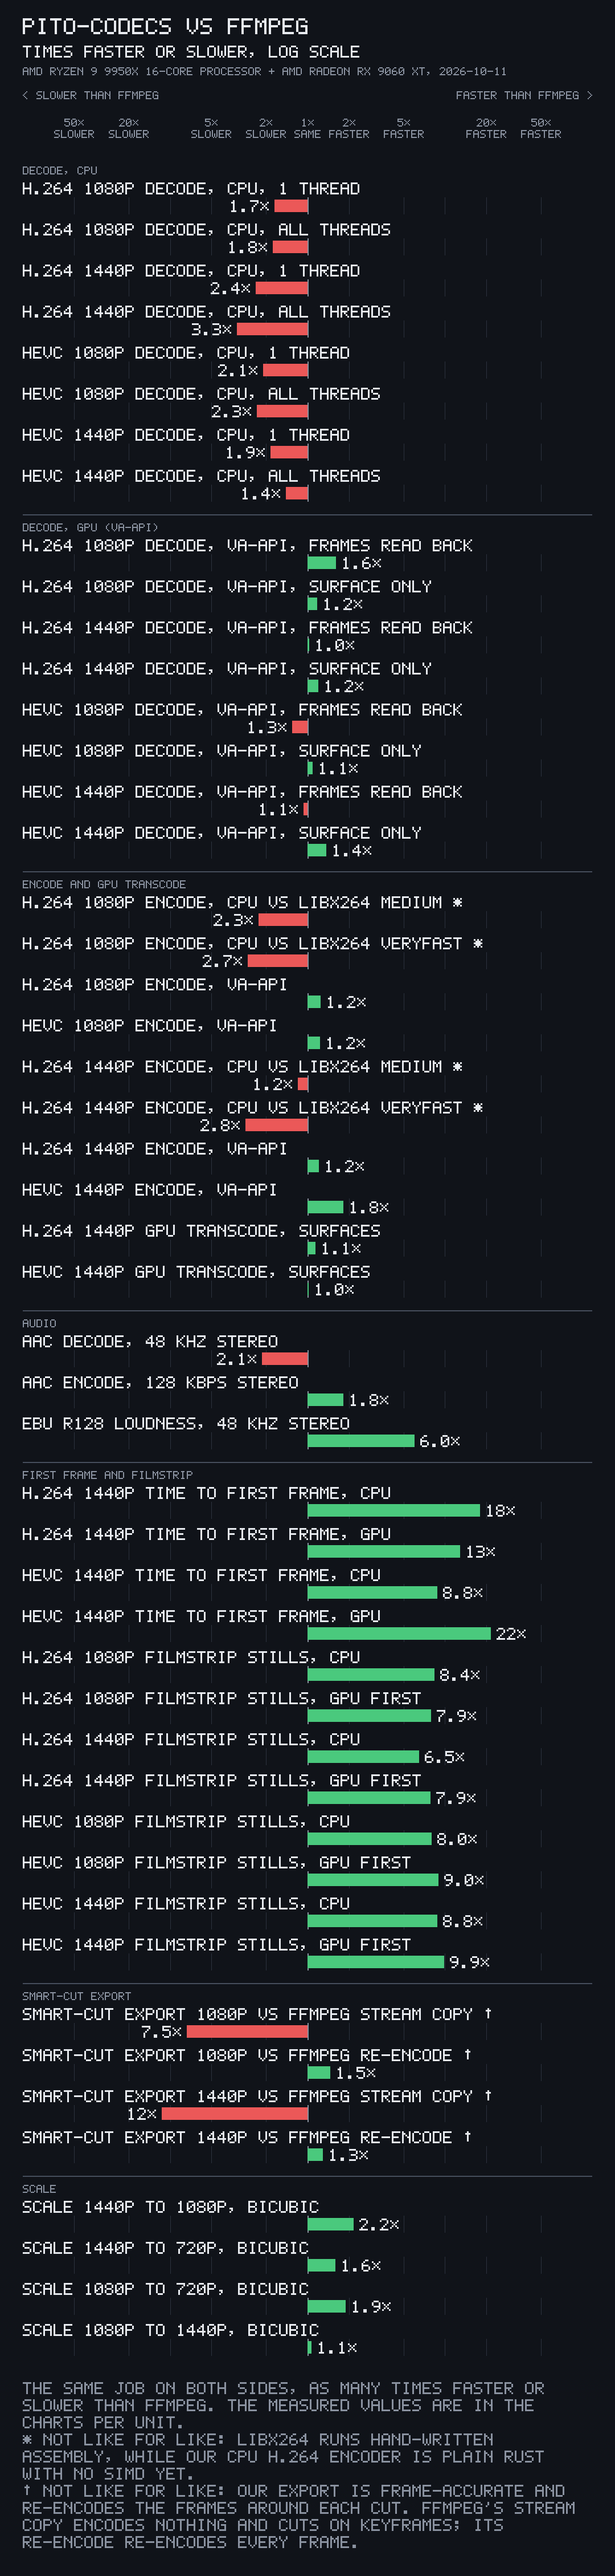
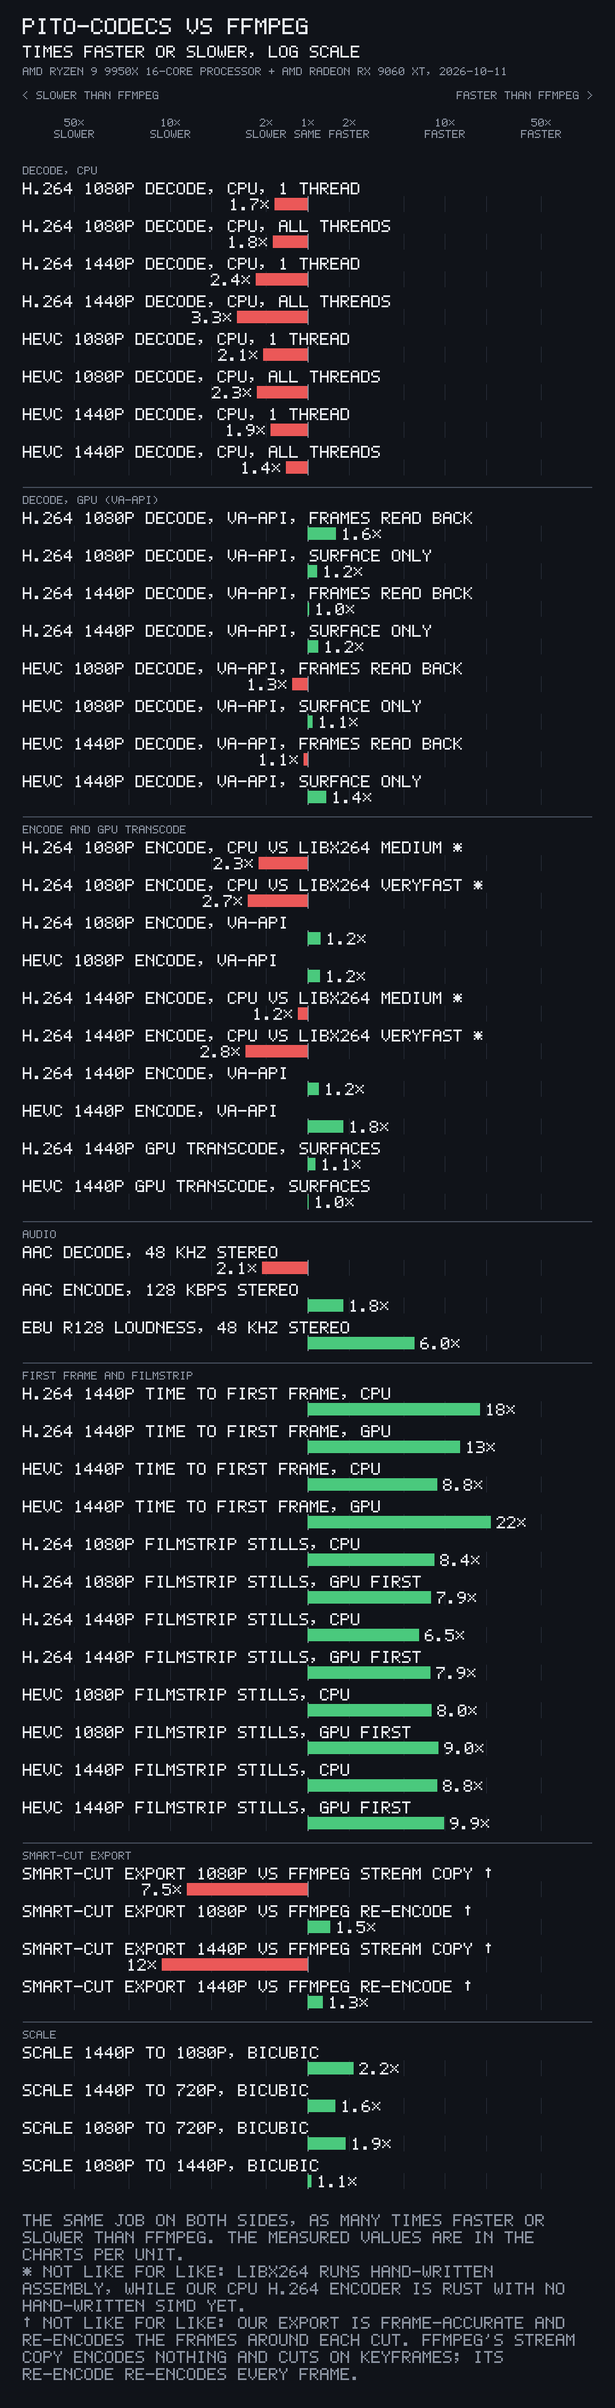
README: routes are GPU then our CPU code with their fallbacks; INSPIRATION opens with why; charts per unit with notes on the comparisons that are not like for like

diff --git a/examples/bench/charts.rs b/examples/bench/charts.rs
@@ -149,7 +149,7 @@ type Res = Result<(), Box<dyn std::error::Error>>;
 const WIDTH: i64 = 1080;
 const LEFT: i64 = 40;
 const ROW: i64 = 124;
-const RATIO_ROW: i64 = 72;
+const RATIO_ROW: i64 = 66;
 const GROUP: i64 = 50;
 const NOTE: i64 = 30;
 
@@ -404,6 +404,9 @@ pub fn ratios(
             let r = t.powf(side);
             let gx = x(r);
             grid.push((gx, t == 1.0));
+            if !(t <= 2.0 || t == bound || t.log10().fract() == 0.0) {
+                continue;
+            }
             let (a, b) = if t == 1.0 {
                 ("1×".to_string(), "SAME")
             } else {
@@ -433,16 +436,16 @@ pub fn ratios(
         for &(gx, one) in &grid {
             c.rect(
                 gx,
-                y + 26,
+                y + 24,
                 if one { 2 } else { 1 },
-                30,
+                28,
                 if one { DIM } else { GRID },
             );
         }
         c.text(LEFT, y, &e.label, 3, TEXT);
         let (x0, x1) = (x(1.0), x(e.speedup));
         let colour = if e.speedup >= 1.0 { FASTER } else { SLOWER };
-        c.rect(x0.min(x1), y + 30, (x1 - x0).abs().max(2), 22, colour);
+        c.rect(x0.min(x1), y + 27, (x1 - x0).abs().max(2), 22, colour);
         let tag = format!("{}×", number(e.speedup.max(1.0 / e.speedup)));
         let tw = Canvas::text_width(&tag, 3);
         let tx = if e.speedup >= 1.0 {
@@ -450,7 +453,7 @@ pub fn ratios(
         } else {
             x1.min(x0) - 10 - tw
         };
-        c.text(tx, y + 31, &tag, 3, TEXT);
+        c.text(tx, y + 28, &tag, 3, TEXT);
     }
     for (i, line) in notes.iter().enumerate() {
         c.text(LEFT, bottom + 30 + i as i64 * NOTE, line, 3, DIM);

diff --git a/examples/bench.rs b/examples/bench.rs
@@ -1539,7 +1539,7 @@ fn mark(id: &str) -> &'static str {
     }
 }
 
-const X264_NOTE: &str = "* NOT LIKE FOR LIKE: LIBX264 RUNS HAND-WRITTEN ASSEMBLY, WHILE OUR CPU H.264 ENCODER IS PLAIN RUST WITH NO SIMD YET.";
+const X264_NOTE: &str = "* NOT LIKE FOR LIKE: LIBX264 RUNS HAND-WRITTEN ASSEMBLY, WHILE OUR CPU H.264 ENCODER IS RUST WITH NO HAND-WRITTEN SIMD YET.";
 const CUT_NOTE: &str = "† NOT LIKE FOR LIKE: OUR EXPORT IS FRAME-ACCURATE; IT COPIES THE MIDDLE OF EACH PIECE AND RE-ENCODES THE FRAMES BETWEEN EACH CUT AND ITS NEAREST KEYFRAME (540 OF 780 FRAMES AT 1080P HERE). FFMPEG'S STREAM COPY ENCODES NOTHING AND CUTS ON KEYFRAMES, SO IT IS NOT FRAME-ACCURATE. FFMPEG'S RE-ENCODE IS FRAME-ACCURATE AND RE-ENCODES EVERY FRAME WITH LIBX264 VERYFAST, CRF 18.";
 
 fn strip(label: &str, word: &str) -> String {
@@ -1660,9 +1660,6 @@ fn charts(rows: &[Row], images: &Path, machine: &Machine, date: &str) -> Res<()>
         .iter()
         .filter(|r| r.ours.is_some() && r.ffmpeg.is_some() && r.speedup.is_some())
         .collect();
-    for old in ["bench-pipeline.png"] {
-        let _ = fs::remove_file(images.join(old));
-    }
     for spec in &specs {
         let mut picked: Vec<&Row> = done
             .iter()

diff --git a/README.md b/README.md
@@ -4,7 +4,7 @@
 
 [![CI](https://github.com/gmrdad82/pito-codecs/actions/workflows/ci.yml/badge.svg)](https://github.com/gmrdad82/pito-codecs/actions/workflows/ci.yml) [![Version](https://img.shields.io/github/v/tag/gmrdad82/pito-codecs)](https://github.com/gmrdad82/pito-codecs/tags)
 
-pito-codecs is a pure Rust library of fast video, audio and image codecs and containers that run on the CPU and on the GPU. It covers H.264, H.265, VP9, AAC, Opus, MP4, MKV and WebM, GIF and WebP. It is part of [PITO](https://pitomd.com) and ships as one MIT Cargo package with a feature per part. No ffmpeg is linked or bundled: ffmpeg serves only as a test oracle here, and as an optional route an app can offer when its user has ffmpeg installed.
+pito-codecs is a pure Rust library of fast video, audio and image codecs and containers that run on the CPU and on the GPU. It covers H.264, H.265, VP9, AAC, Opus, MP4, MKV and WebM, GIF and WebP. It is part of [PITO](https://pitomd.com) and ships as one MIT Cargo package with a feature per part. It needs no ffmpeg: none is linked or bundled, and ffmpeg serves only as the test oracle and the benchmark reference.
 
 ## Status
 
@@ -120,9 +120,13 @@ let still = first_frame("clip.mp4".as_ref(), 240, &prefs)?;
 
 ## Routes
 
-- GPU first, then the CPU code here. A user-provided ffmpeg is used only when the app's settings pick it, per decode and per encode.
-- H.265 encodes on the GPU only. Without a GPU HEVC encoder it falls back to H.264 on the GPU, then H.264 on the CPU, and says why.
-- Every fallback comes with a plain reason the app can show.
+The front tries the GPU first and our own CPU code second, for every decode and every encode.
+
+- **GPU first.** VA-API on Linux decodes and encodes H.264 and H.265.
+- **Then the CPU.** When there is no GPU route (no VA-API device or driver, or no GPU decoder or encoder for that codec), our CPU code takes the job.
+- **H.265 encodes on the GPU only.** Without a GPU HEVC encoder it falls back to H.264 on the GPU, then to H.264 on the CPU.
+- **An export whose GPU encoder refuses to start** (a size or format the hardware won't take) encodes H.264 on the CPU instead.
+- **Every fallback says why**, in a plain reason the app can show, such as "no GPU HEVC encoder on this machine; encoding H.264 on the GPU instead".
 
 ## Speed
 
@@ -132,7 +136,7 @@ Each pair below was measured back to back against the system ffmpeg on the same 
 - **GPU:** AMD Radeon RX 9060 XT on Mesa 26.2 radeonsi through VA-API, on Linux.
 - **ffmpeg:** 9.0.1.
 
-The input is 20 s of NASA's public-domain "A Message of Resilience from the International Space Station" (720p60). It was scaled to 1080p and 1440p and encoded with libx264 at CRF 20 and libx265 at CRF 23. The command is `pgpu run -- cargo run --release --example bench -- --runs 3`, which writes `tmp/bench/results.json` and the charts below. Each number is the median of three runs. The machine was busy with other builds (load average 34 to 38), so the absolute numbers are floors.
+The input is 20 s of NASA's public-domain "A Message of Resilience from the International Space Station" (720p60). It was scaled to 1080p and 1440p and encoded with libx264 at CRF 20 and libx265 at CRF 23. The command is `pgpu run -- cargo run --release --example bench -- --runs 3`, which writes `tmp/bench/results.json` and the charts below; `--charts-only` redraws the charts from that file. Each number is the median of three runs. The machine was busy with other builds (load average 34 to 38), so the absolute numbers are floors.
 
 ![Speed against ffmpeg, per job](docs/images/bench-speedup.png)
 
@@ -147,20 +151,27 @@ The input is 20 s of NASA's public-domain "A Message of Resilience from the Inte
 | H.264 1440p encode, VA-API, QP 23 | 413 fps | 342 fps |
 | HEVC 1440p encode, VA-API, QP 23 | 534 fps | 294 fps |
 | H.264 1440p GPU transcode, frames stay on the GPU | 313 fps | 274 fps |
-| H.264 1080p encode, CPU, CRF 23 (ffmpeg: libx264 medium) | 83 fps | 189 fps |
+| H.264 1080p encode, CPU, CRF 23 (ffmpeg: libx264 medium, hand-written assembly; ours has no hand-written SIMD yet) | 83 fps | 189 fps |
 | H.264 1440p time to first frame, CPU (ffmpeg includes process start) | 8 ms | 150 ms |
 | H.264 1440p filmstrip, 12 stills at 240 px, GPU first | 205 stills/s | 26 stills/s |
-| Smart-cut export 1080p, 3 cuts, frame-accurate (ffmpeg: full re-encode) | 7.2x real time | 4.9x real time |
+| Smart-cut export 1080p, 3 cuts, frame-accurate (ffmpeg: re-encodes every frame; ours copies the middle and re-encodes around each cut) | 7.2× real time | 4.9× real time |
+| Smart-cut export 1080p against ffmpeg's stream copy (ffmpeg encodes nothing and cuts on keyframes, so it is not frame-accurate) | 7.2× real time | 54.3× real time |
 | Scale 1440p to 1080p, bicubic | 1683 fps | 778 fps |
-| AAC encode, 128 kbps stereo | 211x real time | 116x real time |
-| EBU R128 loudness, 48 kHz stereo | 3007x real time | 502x real time |
+| AAC decode, 48 kHz stereo | 633× real time | 1357× real time |
+| AAC encode, 128 kbps stereo | 211× real time | 116× real time |
+| EBU R128 loudness, 48 kHz stereo | 3007× real time | 502× real time |
 
 The CPU decoders have improved since this run: H.264 1440p decode on 16 threads is now about 926 fps and HEVC 1080p about 717 fps, while VP9 and Opus are newer still. The next release reruns the benchmark on a quiet machine.
 
-![Decode frames per second](docs/images/bench-decode.png)
-![Encode frames per second](docs/images/bench-encode.png)
-![First frame, filmstrip, smart cut and scale](docs/images/bench-pipeline.png)
-![Audio real-time factors](docs/images/bench-audio.png)
+The chart above shows each job as times faster or slower than ffmpeg, on a log scale centred on the same speed, so 2× slower is as long as 2× faster. The charts below hold the measured values, one chart per unit, pito-codecs and ffmpeg side by side on one axis from zero. Rows marked * or † are not like for like, and each chart says why under it.
+
+![Decode, frames per second](docs/images/bench-decode.png)
+![Encode, frames per second](docs/images/bench-encode.png)
+![Time to first frame, milliseconds](docs/images/bench-first-frame.png)
+![Filmstrip, stills per second](docs/images/bench-filmstrip.png)
+![Smart-cut export, times real time](docs/images/bench-export.png)
+![Scale, frames per second](docs/images/bench-scale.png)
+![Audio, times real time](docs/images/bench-audio.png)
 
 ## Roadmap
 
@@ -188,7 +199,7 @@ Issues are welcome at [github.com/gmrdad82/pito-codecs/issues](https://github.co
 
 ## Credits
 
-Parts are adapted from [FilmCraft](https://github.com/storytold/filmcraft) (MIT OR Apache-2.0, taken under MIT) and from libwebp (BSD-3-Clause). The VA-API and NVENC declarations follow the MIT-licensed libva and NVIDIA headers. FFmpeg, libvpx, libopus and x264 were never copied; ffmpeg serves as a test oracle and as an optional route the user provides. The ITU-T H.264 and H.265 Recommendations, the VP9 specification, RFC 6716, RFC 6386, the GIF89a specification and the ISO MP4 and AAC standards are the sources. Origins are listed in [INSPIRATION.md](INSPIRATION.md) and their notices in [NOTICE](NOTICE). The demo and benchmark clips are public-domain NASA footage from PITO's fixture sets.
+Parts are adapted from [FilmCraft](https://github.com/storytold/filmcraft) (MIT OR Apache-2.0, taken under MIT) and from libwebp (BSD-3-Clause). The VA-API and NVENC declarations follow the MIT-licensed libva and NVIDIA headers. FFmpeg, libvpx, libopus and x264 were never copied; ffmpeg serves only as the test oracle and the benchmark reference. The ITU-T H.264 and H.265 Recommendations, the VP9 specification, RFC 6716, RFC 6386, the GIF89a specification and the ISO MP4 and AAC standards are the sources. Origins are listed in [INSPIRATION.md](INSPIRATION.md) and their notices in [NOTICE](NOTICE). The demo and benchmark clips are public-domain NASA footage from PITO's fixture sets.
 
 ## Licence
 

diff --git a/INSPIRATION.md b/INSPIRATION.md
@@ -1,8 +1,12 @@
 # Inspiration
 
-The codecs here are written in Rust. Parts are adapted from permissively licensed projects, each named below with the tag or commit it was taken from; their copyright and licence texts are kept in `NOTICE`.
+## Why
+
+I wanted something smaller and faster, written natively in Rust, for the PITO family of apps and my games. One library each app can carry, with no external ffmpeg to download, bundle or keep in step, and the GPU used first.
 
 ## Origins
+
+The codecs here are written in Rust. Parts are adapted from permissively licensed projects, each named below with the tag or commit it was taken from; their copyright and licence texts are kept in `NOTICE`.
 
 | Origin | Licence taken | Tag and commit | What came from it |
 | --- | --- | --- | --- |
@@ -23,7 +27,7 @@ The codecs here are written in Rust. Parts are adapted from permissively license
 
 ## Read, never copied
 
-FFmpeg, x264, x265, libde265, libvpx and libopus were read for understanding only: no code from them is copied, translated line by line, linked or bundled. FFmpeg appears only as a test oracle and as the optional route a user can provide themselves.
+FFmpeg, x264, x265, libde265, libvpx and libopus were read for understanding only: no code from them is copied, translated line by line, linked or bundled. FFmpeg appears only as the test oracle and the benchmark reference.
 
 ## What may come in
 
